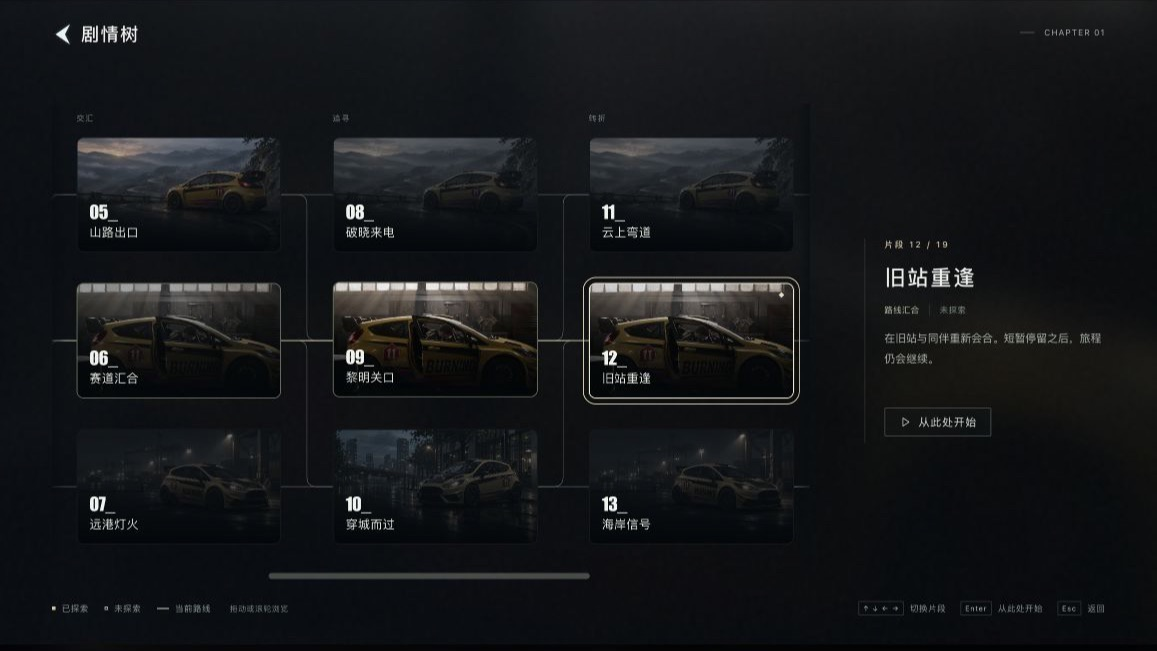
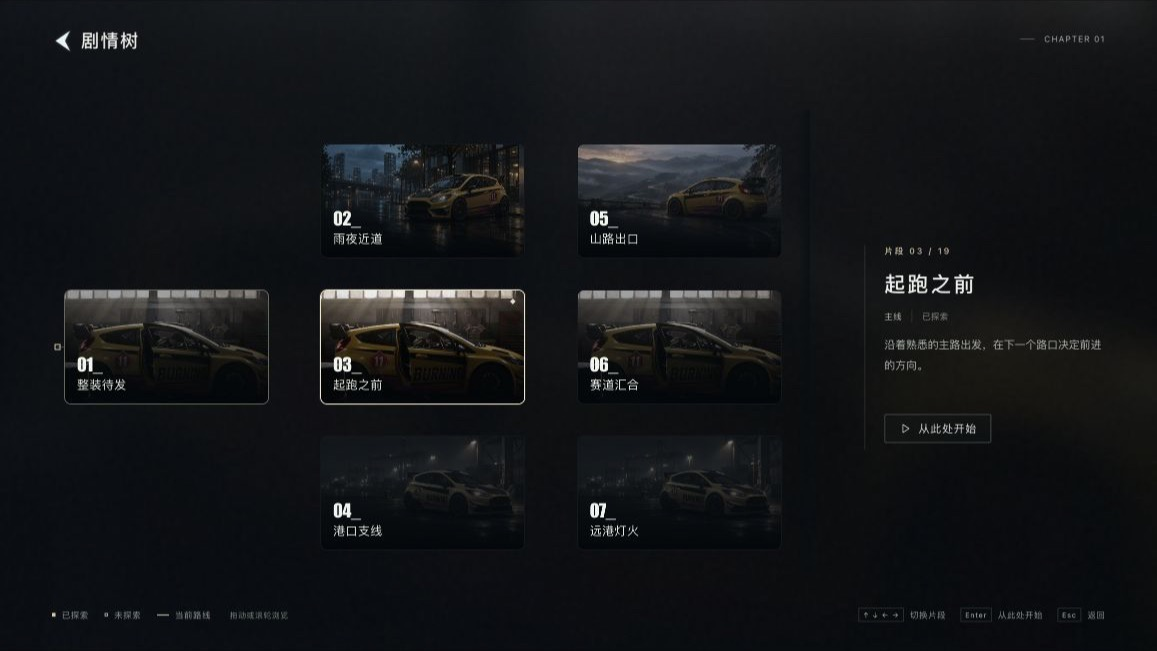
Remove story tree column captions

diff --git a/compare.html b/compare.html
@@ -1,4 +1,4 @@
-<!doctype html><html lang="zh-CN"><head><meta charset="utf-8"><meta name="viewport" content="width=device-width,initial-scale=1"><title>Yoroll 游戏 UI · 改版对比与比例方案</title><link rel="icon" href="wall/assets/yoroll-icon.svg"><link rel="stylesheet" href="compare.css?v=story-scroll-20261113"></head>
+<!doctype html><html lang="zh-CN"><head><meta charset="utf-8"><meta name="viewport" content="width=device-width,initial-scale=1"><title>Yoroll 游戏 UI · 改版对比与比例方案</title><link rel="icon" href="wall/assets/yoroll-icon.svg"><link rel="stylesheet" href="compare.css?v=tree-labels-20261113"></head>
 <body><header class="report-header"><a class="brand" href="index.html"><img src="assets/yoroll-logo.png" alt="yoroll"></a><div><span>UI / MOTION STUDY</span><h1>更克制的比例，更连贯的节奏。</h1></div><a id="open-prototype" class="primary-link" href="index.html?page=home" target="_blank">打开交互原型 ↗</a></header>
 <div class="scope"><i></i><span>本地交互方案</span><span>14 个页面 / 状态</span><span>16:9 横版</span><span>未修改线上 Unity 游戏</span></div>
 <main class="report-layout"><aside class="page-sidebar"><div class="sidebar-title">逐页对比</div><nav id="page-list"></nav><a href="#proportions">比例调整方案 ↓</a><a href="#handoff">动效与交付说明 ↓</a></aside><article><section class="comparison-section"><div class="page-heading"><div><span id="page-kind" class="eyebrow"></span><h2 id="page-name"></h2></div><div class="page-switch"><button id="prev" aria-label="上一页">←</button><span id="page-count"></span><button id="next" aria-label="下一页">→</button></div></div>
@@ -6,4 +6,4 @@
 <div id="comparison" class="comparison fit-stage" data-mode="wipe"><div class="still-stage"><div class="before-layer"><img id="before-image" alt="修改前截图"><div id="no-before" class="no-before" hidden><span>—</span><h3>没有对应原版截图</h3><p id="before-note"></p></div><span class="picture-label before-label">原版</span></div><div class="after-layer" id="after-layer"><img id="after-image" alt="修改后截图"><span class="picture-label after-label">新版</span></div><div id="wipe-handle" class="wipe-handle"><span>↔</span></div><div class="safe-area" aria-hidden="true"><span>4.5% 水平安全区</span></div></div><div class="motion-stage" hidden><iframe id="motion-frame" title="页面动效预览"></iframe><div class="safe-area" aria-hidden="true"><span>4.5% 水平安全区</span></div></div></div>
 <div id="slider-row" class="slider-row"><span>新版更多</span><input id="wipe-slider" type="range" min="0" max="100" value="50" aria-label="新旧画面分割位置"><span>原版更多</span></div><p id="image-note" class="image-note"></p><div class="change-summary"><div><h3>布局与层级</h3><p id="change"></p></div><div><h3>比例</h3><p id="ratio"></p></div><div><h3>动效与操作</h3><p id="motion"></p><p id="interaction"></p></div></div></section>
 <section id="proportions" class="spec-section"><div class="section-heading"><span class="eyebrow">PROPORTION SYSTEM</span><h2>分别调整层级，建立统一的尺寸体系。</h2><p>以下均以 1920×1080 为设计基准。实际预览按画幅等比缩放，保持 16:9；水平安全区为画面宽度的 4.5%。原版数值来自截图估测。</p></div><div class="table-scroll"><table><thead><tr><th>项目</th><th>原版 · 约</th><th>新版</th><th>变化</th><th>调整目的</th></tr></thead><tbody id="proportion-table"></tbody></table></div><div class="principles"><div><span>01</span><h3>让场景成为主体</h3><p>减少全屏灰白覆盖和重高光。菜单、设置、弹窗用暗色虚化与局部明暗建立前后层次。</p></div><div><span>02</span><h3>控制视觉重量</h3><p>正文、辅助数值、主操作分别定标。保留大结果标题，收紧表单标签与导航控件。</p></div><div><span>03</span><h3>统一反馈语言</h3><p>细描边、短位移、柔和减速。悬停、按下、选中、取消与退出都给出明确回应。</p></div></div></section>
-<section id="handoff" class="spec-section"><div class="section-heading"><span class="eyebrow">MOTION SYSTEM</span><h2>一套进出场节奏，覆盖每个页面。</h2><p>页面退出 150ms，新页标题先入场，内容以 42–70ms 错峰，主体在约 0.8–1.1s 内落位。背景与封面 Logo 使用更长的缓慢收尾。</p></div><div class="motion-grid"><div><h3>常规入场</h3><strong>560–760<span> ms</span></strong><p>缓动 cubic-bezier(.16, 1, .3, 1)<br>上下位移约 8–24px，以设计基准计</p></div><div><h3>背景推近</h3><strong>3.6<span> s</span></strong><p>起止速度与加速度均为零<br>封面 100% → 103.5%，结束后停留</p></div><div><h3>确认弹窗</h3><strong>420<span> ms</span></strong><p>遮罩先淡入，弹窗轻浮落位<br>退出 150ms，取消后恢复焦点</p></div></div><div class="check-row"><span>✓ 页面切换</span><span>✓ 悬停 / 按下</span><span>✓ 键盘操作</span><span>✓ 弹窗焦点</span><span>✓ 减少动态效果适配</span><span>✓ 所有页面可重播</span><span>✓ Hover / 点击 / 切页音效</span></div><div class="file-links"><a href="design-tokens.json" download>下载尺寸与颜色参数</a><a href="motion-spec.json" download>下载逐页动效参数</a><a href="sound-spec.json" download>下载界面音效参数</a><a href="implementation-notes.txt" download>下载落地说明</a><a href="https://preview.game.yoroll.ai/?config=Race&test=1&lang=zh" target="_blank">查看原始预览 ↗</a></div><details open><summary>范围、素材与验证说明</summary><ul id="scope-notes"></ul><p>已检查主菜单、章节与剧情树导航；设置数值与语言下拉；新建存档和确认 / 取消；限时选择暂停计时；选择 → QTE → 结果链路；结果计至 100%。所有页面 / 状态均已保存本地截图。</p></details></section><footer class="report-footer">YOROLL · UI & MOTION EXPLORATION <span>2026.11.11 · 本地方案</span></footer></article></main><script src="report-data.js?v=story-scroll-20261113"></script><script src="compare.js?v=story-scroll-20261113"></script></body></html>
+<section id="handoff" class="spec-section"><div class="section-heading"><span class="eyebrow">MOTION SYSTEM</span><h2>一套进出场节奏，覆盖每个页面。</h2><p>页面退出 150ms，新页标题先入场，内容以 42–70ms 错峰，主体在约 0.8–1.1s 内落位。背景与封面 Logo 使用更长的缓慢收尾。</p></div><div class="motion-grid"><div><h3>常规入场</h3><strong>560–760<span> ms</span></strong><p>缓动 cubic-bezier(.16, 1, .3, 1)<br>上下位移约 8–24px，以设计基准计</p></div><div><h3>背景推近</h3><strong>3.6<span> s</span></strong><p>起止速度与加速度均为零<br>封面 100% → 103.5%，结束后停留</p></div><div><h3>确认弹窗</h3><strong>420<span> ms</span></strong><p>遮罩先淡入，弹窗轻浮落位<br>退出 150ms，取消后恢复焦点</p></div></div><div class="check-row"><span>✓ 页面切换</span><span>✓ 悬停 / 按下</span><span>✓ 键盘操作</span><span>✓ 弹窗焦点</span><span>✓ 减少动态效果适配</span><span>✓ 所有页面可重播</span><span>✓ Hover / 点击 / 切页音效</span></div><div class="file-links"><a href="design-tokens.json" download>下载尺寸与颜色参数</a><a href="motion-spec.json" download>下载逐页动效参数</a><a href="sound-spec.json" download>下载界面音效参数</a><a href="implementation-notes.txt" download>下载落地说明</a><a href="https://preview.game.yoroll.ai/?config=Race&test=1&lang=zh" target="_blank">查看原始预览 ↗</a></div><details open><summary>范围、素材与验证说明</summary><ul id="scope-notes"></ul><p>已检查主菜单、章节与剧情树导航；设置数值与语言下拉；新建存档和确认 / 取消；限时选择暂停计时；选择 → QTE → 结果链路；结果计至 100%。所有页面 / 状态均已保存本地截图。</p></details></section><footer class="report-footer">YOROLL · UI & MOTION EXPLORATION <span>2026.11.11 · 本地方案</span></footer></article></main><script src="report-data.js?v=tree-labels-20261113"></script><script src="compare.js?v=tree-labels-20261113"></script></body></html>

diff --git a/app.js b/app.js
@@ -298,7 +298,7 @@ function treeView(){
   const active=node.id===state.node,onRoute=state.path.includes(node.id);
   return `<div class="tree-node-cell" style="--node-x:${node.x};--node-y:${node.y}" data-enter="node" data-tree-depth="${node.column}" data-tree-row="${node.row}"><button class="tree-node ${active?'is-selected':''} ${onRoute?'is-route':''} ${node.explored?'':'is-unexplored'}" data-story-node="${node.id}" aria-pressed="${active}" tabindex="${active?0:-1}" aria-label="片段 ${node.id}，${node.name}，${node.explored?'已探索':'未探索'}，可重玩"><img src="${node.cover}" alt="" draggable="false"><span class="node-selection" aria-hidden="true"></span><div class="node-info"><span class="node-number">${node.id}_</span><strong>${node.name}</strong></div></button></div>`;
  }).join('');
- return `${pageHeading('剧情树','chapters',`CHAPTER ${String(chapter.number).padStart(2,'0')}`)}<div class="tree-layout"><div class="tree-graph" role="group" aria-label="第 ${chapter.number} 章的剧情分支"><div class="tree-viewport" aria-label="可横向滚动的剧情分支"><div class="tree-board" style="--tree-board-width:${layout.width}">${['起点','分支','交汇','追寻','转折','抉择','结局'].map((label,index)=>`<div class="tree-column-label" style="--column-x:${20+425*index}">${label}</div>`).join('')}<svg class="tree-connections" viewBox="0 0 ${layout.width} ${layout.height}" aria-hidden="true"><path class="tree-origin-line" d="M 9 362 H 20"/>${edges}</svg><div class="tree-root" data-enter="tree-line"></div>${nodes}</div></div></div><aside class="tree-detail" data-enter="detail"><div class="tree-detail-content">${storyDetailMarkup(selected)}</div></aside></div>${footer('<div class="tree-legend"><span><i class="legend-dot visited"></i> 已探索</span><span><i class="legend-dot"></i> 未探索</span><span><i class="legend-route"></i> 当前路线</span><span class="tree-browse-tip">拖动或滚轮浏览</span></div>','<span><span class="keycap">↑ ↓ ← →</span> 切换片段</span><span><span class="keycap">Enter</span> 从此处开始</span><span><span class="keycap">Esc</span> 返回</span>')}<div class="sr-only" id="tree-announcement" role="status" aria-live="polite"></div>`;
+ return `${pageHeading('剧情树','chapters',`CHAPTER ${String(chapter.number).padStart(2,'0')}`)}<div class="tree-layout"><div class="tree-graph" role="group" aria-label="第 ${chapter.number} 章的剧情分支"><div class="tree-viewport" aria-label="可横向滚动的剧情分支"><div class="tree-board" style="--tree-board-width:${layout.width}"><svg class="tree-connections" viewBox="0 0 ${layout.width} ${layout.height}" aria-hidden="true"><path class="tree-origin-line" d="M 9 362 H 20"/>${edges}</svg><div class="tree-root" data-enter="tree-line"></div>${nodes}</div></div></div><aside class="tree-detail" data-enter="detail"><div class="tree-detail-content">${storyDetailMarkup(selected)}</div></aside></div>${footer('<div class="tree-legend"><span><i class="legend-dot visited"></i> 已探索</span><span><i class="legend-dot"></i> 未探索</span><span><i class="legend-route"></i> 当前路线</span><span class="tree-browse-tip">拖动或滚轮浏览</span></div>','<span><span class="keycap">↑ ↓ ← →</span> 切换片段</span><span><span class="keycap">Enter</span> 从此处开始</span><span><span class="keycap">Esc</span> 返回</span>')}<div class="sr-only" id="tree-announcement" role="status" aria-live="polite"></div>`;
 }
 function disposeStoryScroll(){
  treeScrollCleanup?.();treeScrollCleanup=null;treeRevealNode=null;treeViewportMove=null;

diff --git a/compare.js b/compare.js
@@ -15,7 +15,7 @@ function updatePage(){
  $('#page-kind').textContent=page.kind;
  $('#page-count').textContent=`${String(index+1).padStart(2,'0')} / ${pages.length}`;
  $('#change').textContent=page.change;$('#ratio').textContent=page.ratio;$('#motion').textContent=page.motion;$('#interaction').textContent=page.interaction;
- $('#after-image').src=`comparison/after/${page.id}.jpg?v=story-scroll-20261113`;
+ $('#after-image').src=`comparison/after/${page.id}.jpg?v=tree-labels-20261113`;
  $('#after-image').alt=page.name+'修改后';
  $('#before-image').hidden=!page.before;
  $('#no-before').hidden=Boolean(page.before);
@@ -23,12 +23,12 @@ function updatePage(){
  else $('#before-image').removeAttribute('src');
  $('#before-note').textContent=page.kind==='沿用已定方案'?'沿用本聊天之前已确认的封面构图与素材。':'该状态未在这次线上预览中观察到。新版提供可操作的补充动效示例。';
  $('#image-note').textContent=mode==='motion'?'当前为可操作的实时动效。页面内可以继续导航，点击重播可回到所选页面。':page.before?'原版来自线上实际截图；新版为本地浏览器截图。底图部分不同，对比重点为 UI 占比、层级与位置。':'左侧保留来源说明；右侧展示本轮方案。点击「播放动效」体验完整入场。';
- $('#open-prototype').href=`index.html?page=${page.id}&revision=story-scroll-20261113`;
+ $('#open-prototype').href=`index.html?page=${page.id}&revision=tree-labels-20261113`;
  document.querySelectorAll('[data-page]').forEach(button=>{if(button.dataset.page===page.id)button.setAttribute('aria-current','page');else button.removeAttribute('aria-current');});
  history.replaceState(null,'','#'+page.id);
  if(mode==='motion')loadMotion();
 }
-function loadMotion(){const page=pages[index];$('#motion-frame').src=`index.html?page=${page.id}&capture=1&revision=story-scroll-20261113&replay=${++replay}`;}
+function loadMotion(){const page=pages[index];$('#motion-frame').src=`index.html?page=${page.id}&capture=1&revision=tree-labels-20261113&replay=${++replay}`;}
 function setMode(value){
  mode=value;$('#comparison').dataset.mode=mode;
  document.querySelectorAll('button[data-mode]').forEach(button=>button.setAttribute('aria-pressed',String(button.dataset.mode===mode)));

diff --git a/index.html b/index.html
@@ -6,7 +6,7 @@
   <meta name="theme-color" content="#0a0d0e">
   <title>Yoroll · 游戏 UI 动效改版</title>
   <link rel="icon" href="wall/assets/yoroll-icon.svg">
-  <link rel="stylesheet" href="style.css?v=story-scroll-20261113">
+  <link rel="stylesheet" href="style.css?v=tree-labels-20261113">
   <link rel="preload" as="fetch" href="assets/audio/home-opening.wav?v=opening-fade-20261111" crossorigin="anonymous">
 </head>
 <body>
@@ -33,6 +33,6 @@
   <script src="ui-sound.js?v=master-mute-20261113"></script>
   <script src="home-music.js?v=master-mute-20261113"></script>
   <script src="story-tree.js?v=story-scroll-20261113"></script>
-  <script src="app.js?v=story-scroll-20261113"></script>
+  <script src="app.js?v=tree-labels-20261113"></script>
 </body>
 </html>

diff --git a/style.css b/style.css
@@ -40,7 +40,7 @@
 /* Connected story preview; reference card size stays 340 x 191.25. */
 .tree-board{position:relative;flex:none;width:calc(var(--p)*var(--tree-board-width));height:calc(var(--p)*724)}
 .tree-node-cell{position:absolute;left:calc(var(--p)*var(--node-x));top:calc(var(--p)*var(--node-y));width:calc(var(--p)*340)}
-.tree-column-label{position:absolute;left:calc(var(--p)*var(--column-x));top:calc(var(--p)*-17);font-size:calc(var(--p)*13);letter-spacing:.16em;color:#77827b}
+
 .tree-connections{position:absolute;inset:0;width:100%;height:100%;overflow:visible;pointer-events:none;fill:none}
 .tree-link,.tree-origin-line{stroke:#84948880;stroke-width:1.3;fill:none}
 .tree-link,.tree-route{stroke-dasharray:1;stroke-dashoffset:0}
